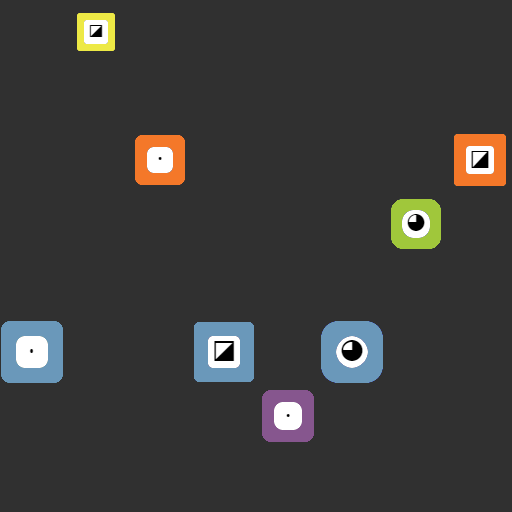
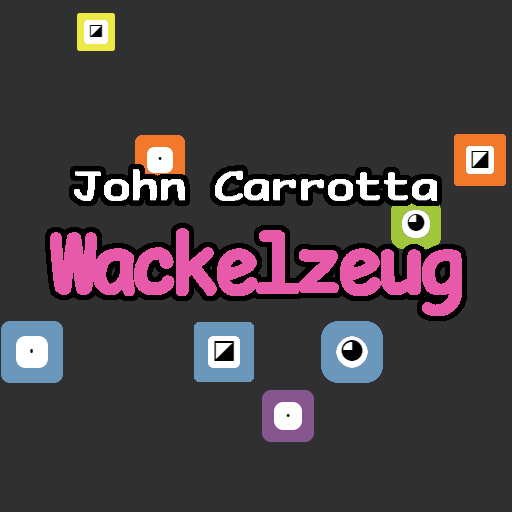
updated documentation + cover

Changed region(s): [[0.0625, 0.4375, 0.9375, 0.625], [0.4062, 0.3125, 0.875, 0.4062], [0.125, 0.3125, 0.375, 0.4062]]

diff --git a/a05/jcarrotta/game.js b/a05/jcarrotta/game.js
@@ -28,12 +28,10 @@ PS.init = function( system, options )
     PS.gridColor(0x303030);
 
     // Change status line color and text
-
     PS.statusColor( PS.COLOR_WHITE );
     PS.statusText( "Touch any bead" );
 
-    // Preload click sound
-
+    // Preload jelly sounds
     PS.audioLoad("fx_pop" );
     PS.audioLoad("fx_drip2");
     PS.audioLoad("fx_drip1");
@@ -41,40 +39,58 @@ PS.init = function( system, options )
     PS.timerStart(2, jellyTick);
 };
 
+// Function to be run on a timer; updates jelly animations and handles blinking.
 function jellyTick()
 {
     for (let i = 0; i < dimension_x; i++) {
         for (let j = 0; j < dimension_y; j++) {
             let this_data = PS.data(i, j);
+
+            // Is there a jelly here?
             if (this_data !== 0)
             {
                 const w = this_data.wiggliness;
                 const delta = (toy_ticks-this_data.time_start);
+
+                // Sine wave upon which jellies wiggle
                 const wiggle_sin = Math.sin(delta * w) * w * 2;
 
                 let temp_border = borderDefault(this_data.temp_scale);
                 let temp_pupil_offset = 0;
+
+                // Are we mid-blink?
                 if (toy_ticks >= this_data.next_blink_time && toy_ticks < this_data.next_blink_time + this_data.blink_length)
                 {
+                    // Add some light, random wiggle if a blink's just started.
                     if (toy_ticks === this_data.next_blink_time && toy_ticks !== this_data.time_start)
                     {
                         const extra_wiggle = PS.random(11) - 1;
                         this_data.wiggliness += extra_wiggle;
+
+                        // Try to make a tiny noise upon a (relatively) violent wiggle.
                         if(extra_wiggle > 8)
                         {
                             playBubbleSound(6);
                         }
                     }
 
+                    // Time since blink started
                     const blink_delta = toy_ticks - this_data.next_blink_time;
+
                     if (blink_delta > (0.3 * this_data.blink_length) && blink_delta < (0.7 * this_data.blink_length))
                     {
+                        // Eye is fully closed in this range.
+                        // Forget the border; remove the glyph and make the jelly's actual bead a solid color.
                         PS.glyph(i, j, 0);
                         PS.color(i, j, this_data.color);
                         temp_border = 0;
                     }
                     else
                     {
+                        // Eye is still partially open in this range.
+                        // Increase border thickness and contract the pupil for a nice blink transition.
+
+                        // Sine wave upon which a blink operates (close, then open again)
                         const blink_sin = (Math.sin(blink_delta * Math.PI / this_data.blink_length));
                         PS.glyph(i, j, getEye(this_data.eyeball));
                         PS.color(i, j, PS.COLOR_WHITE);
@@ -82,27 +98,40 @@ function jellyTick()
                         temp_border = temp_border + (blink_sin * 5);
                     }
                 }
-                else if (toy_ticks > this_data.next_blink_time + this_data.blink_length)
+                else if (toy_ticks > this_data.next_blink_time + this_data.blink_length) // We completed our blink
                 {
+                    // Queue up the next blink. (Divine the next time and its length.)
                     this_data.next_blink_time = toy_ticks + PS.random(300) + 10;
                     this_data.blink_length = PS.random(8) + 2;
+
+                    // Fix the eye/body colors in case it didn't right itself.
                     PS.glyph(i, j, getEye(this_data.eyeball));
                     PS.color(i, j, PS.COLOR_WHITE);
                 }
 
+                // Actually modify the jelly based on the earlier calculations.
                 updateJellyRadius(i, j, this_data.radius + wiggle_sin);
                 updateJellyScale(i, j, this_data.temp_scale + wiggle_sin, temp_border, temp_pupil_offset);
 
+                // Cause wiggle deterioration (by 25% per call)
                 this_data.wiggliness = this_data.wiggliness <= 1? 1 : (this_data.wiggliness * 3 / 4);
+
+                // Handle "temporary scaling" for when a jelly first spawns in...
+                // We want a jelly to "grow" into existence when first spawned, so we store an actual size and a target one.
                 this_data.temp_scale = this_data.temp_scale >= this_data.scale? this_data.scale : (this_data.temp_scale + 8);
+
+                // Re-record the modified data to its bead.
+                // This may not actually be necessary.
                 PS.data(i, j, this_data);
             }
         }
     }
 
+    // Increment ticks.
     toy_ticks++;
 }
 
+// Empty out (or initialize) a bead space.
 function initSpace(x, y)
 {
     PS.color(x, y, PS.COLOR_WHITE);
@@ -111,11 +140,14 @@ function initSpace(x, y)
     PS.border(x, y, 0);
     PS.bgAlpha(x, y, PS.ALPHA_OPAQUE);
     PS.bgColor(x, y, bg_color);
+
+    // Ensure the scale is back to max, to avoid oddities in clickable space.
     PS.scale(x, y, 100);
     PS.alpha(x, y, 0);
     PS.glyph(x, y, 0);
 }
 
+// Force a jelly to load up fresh at the specified space w/ the specified data.
 function updateJelly(x, y, data)
 {
     PS.borderColor(x, y, data.color);
@@ -128,40 +160,57 @@ function updateJelly(x, y, data)
     PS.glyphScale(x, y, data.scale - 5);
 }
 
+// Default calculation for border thickness based on jelly scale.
+// Would be stellar for this to be able to change with monitor resolution.
 function borderDefault (scale)
 {
     return 20 * (scale / 100) - 4;
 }
 
+// Change a jelly bead's radius.
 function updateJellyRadius(x, y, rad)
 {
     PS.radius(x, y, rad);
 }
 
+// Change a jelly bead's scale.
 function updateJellyScale(x, y, scale, border, pupil_offset)
 {
     const g = PS.glyph(x, y);
+
+    // Zeroing out the glyph before modifying scale/thickness avoids quibbles over character size!
+    // Who knew?
     PS.glyph(x, y, 0);
     PS.scale(x, y, scale);
     PS.border(x, y, border);
     PS.glyphScale(x, y, scale - pupil_offset - 5);
+
+    // It's not a bug, it's a feature. Presumably.
     PS.glyph(x, y, g);
 }
 
+// Toggle function for placing a jelly in an empty space, or deleting the jelly.
+// This may be the only thing bearing a resemblance to the original toy. A superficial one, at that.
 function toggleJelly(x, y, data)
 {
     if (data !== 0)
     {
+        // There's a jelly here! Eliminate it.
         initSpace(x, y);
 
         PS.audioPlay("fx_pop");
     }
     else
     {
+        // There's no jelly here, so create one.
+
+        // Randomize the color, rounded-ness, and size of the jelly.
         const my_color = PS.makeRGB(PS.random(0xc0) + 0x34, PS.random(0xc0) + 0x34, PS.random(0xc0) + 0x34);
         const rad_rand = PS.random(27) + 3;
         const size_rand = PS.random(45) + 53;
 
+        // Select an eyeball index appropriate to its radius.
+        // This also decides what instrument sound it plays!
         let eyeball = 0; // 0x00B7, 0x2BCE
         if (rad_rand <= 12)
         {
@@ -172,6 +221,8 @@ function toggleJelly(x, y, data)
             eyeball = 2; // 0x25D5, 0x272A
         }
 
+        // Compile the random data into an object for storage within the bead.
+        // Also initialize a few factors: give it an initial wiggle, a tiny starting scale, and its first blink.
         const jellyData = {
             color: my_color,
             radius: rad_rand,
@@ -184,6 +235,7 @@ function toggleJelly(x, y, data)
             blink_length: 8
         };
 
+        // Load this data into the bead, create the jelly, and play a satisfying sound at subtly random volume.
         PS.data(x, y, jellyData);
         updateJelly(x, y, jellyData);
 
@@ -193,22 +245,28 @@ function toggleJelly(x, y, data)
 
 PS.touch = function(x, y, data, options)
 {
+    // Toggle the jelly-ness of whichever bead was clicked.
     toggleJelly(x, y, data);
 };
 
+// Return the relevant eye character for the given index.
 function getEye(index)
 {
     switch(index)
     {
         case 0:
-            return 0x00B7;
+            return 0x25CF;
         case 1:
             return 0x25EA;
         case 2:
             return 0x25D5;
     }
+
+    // Would love to add a set of "surprised" Unicode eyes if I get a chance.
 }
 
+// Attempt to play a very quiet fluid-like sound.
+// This provides some squishy ambient noise (sometimes) upon a blink, when the cursor touches a jelly, etc.
 function playBubbleSound(rand_max)
 {
     switch(PS.random(rand_max))
@@ -260,9 +318,13 @@ PS.enter = function(x, y, data, options)
 {
     if (data !== 0)
     {
+        // There's a jelly here.
+
+        // Disrupt it with some slight vibration. And reset its sine's "start time"
         data.wiggliness += 12;
         data.time_start = toy_ticks;
 
+        // Based on the shape and size, play a musical note!
         switch(data.eyeball)
         {
             case 0:
@@ -275,6 +337,8 @@ PS.enter = function(x, y, data, options)
                 PS.audioPlay(PS.xylophone(99 - data.scale), {volume: 0.2});
                 break;
         }
+
+        // If possible, would be great to add some percussion sounds.
 
         playBubbleSound(7);
     }
